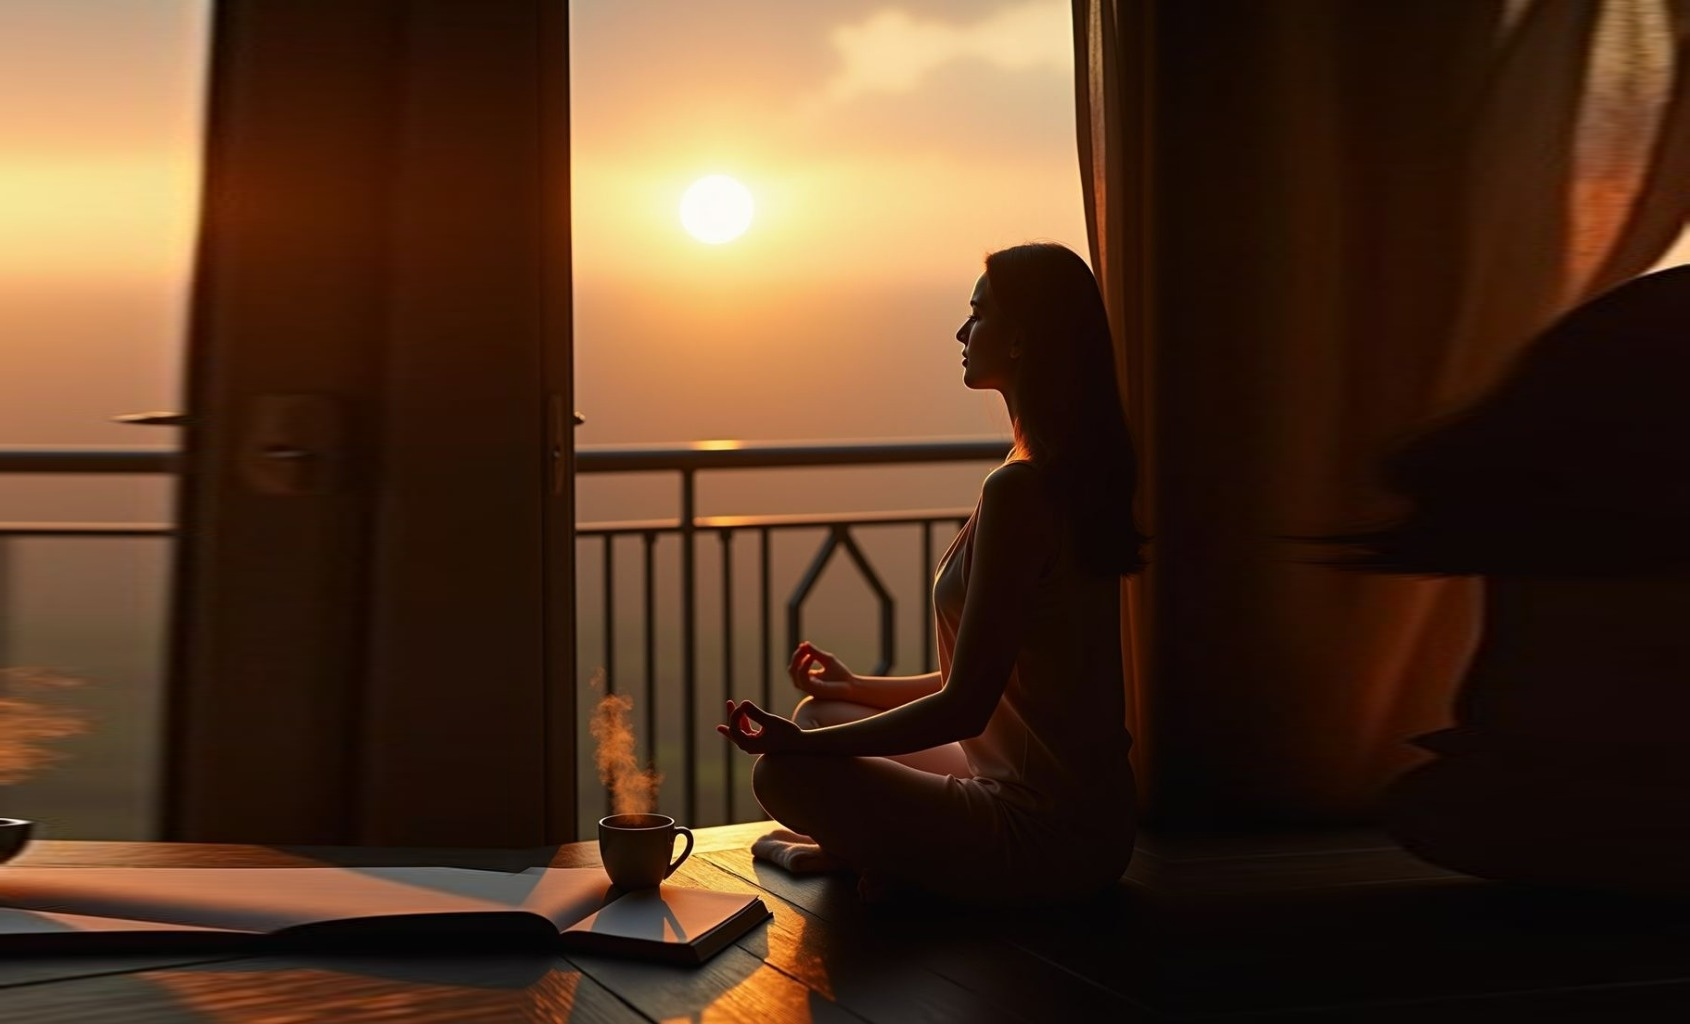
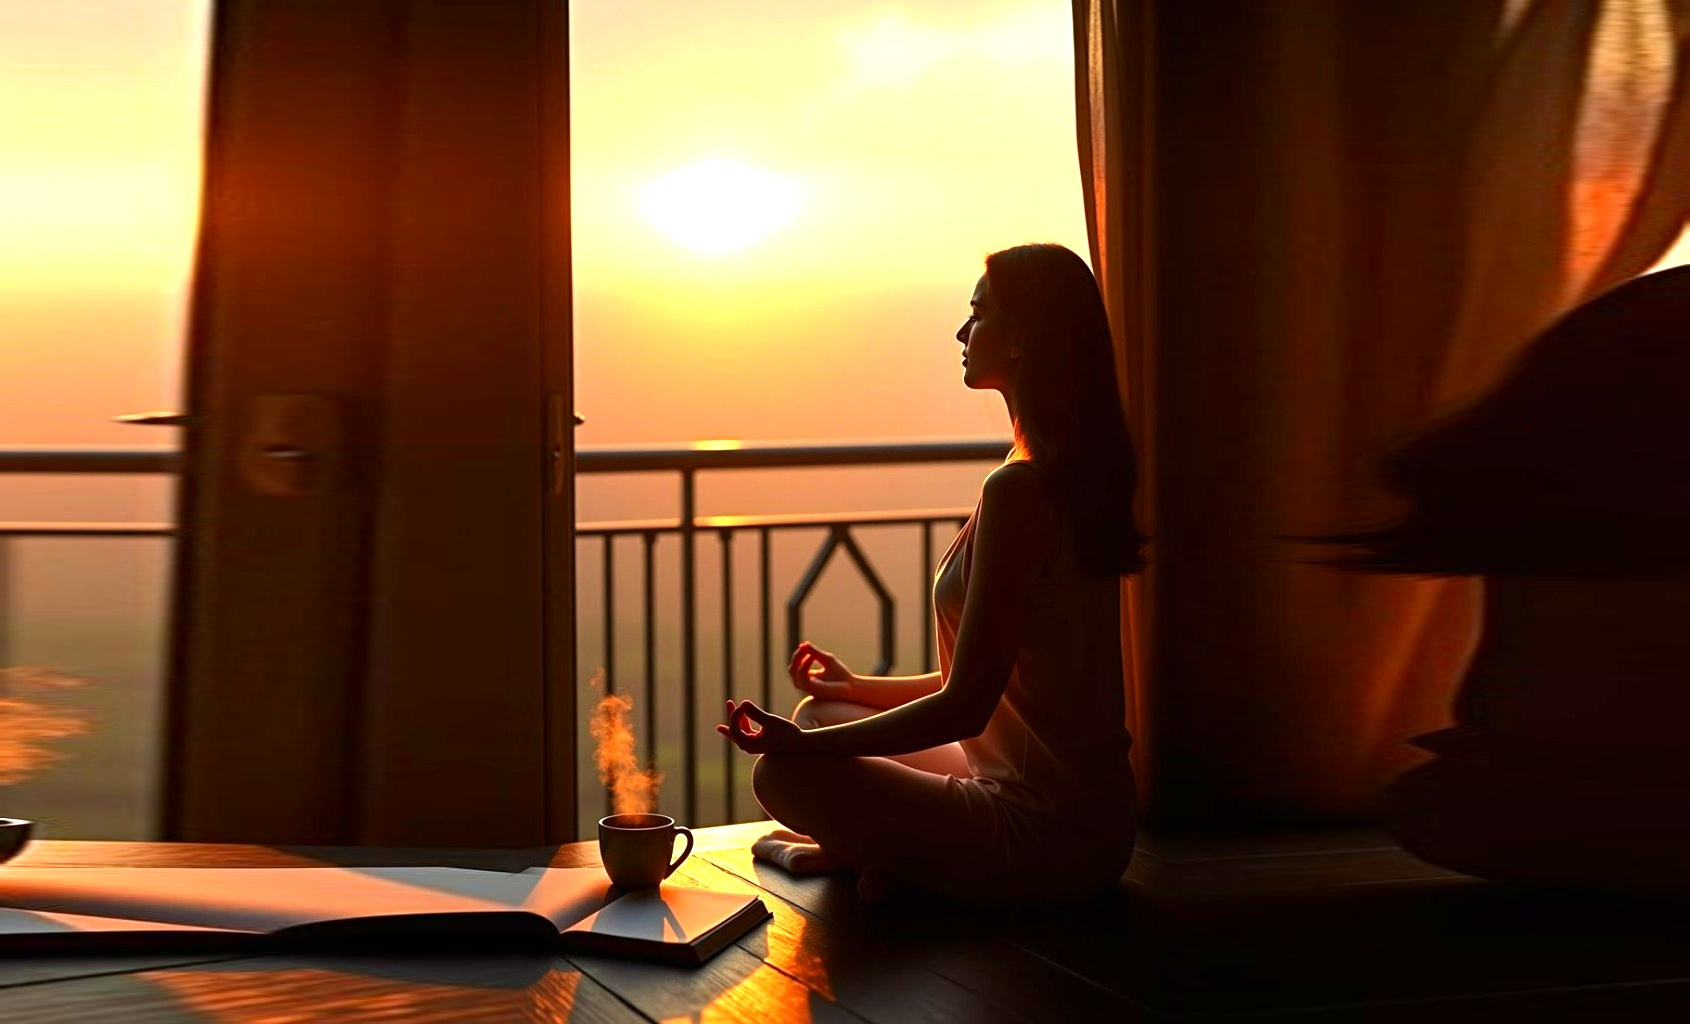
fix(community): brighten cards by lifting exposure and reducing canvas scrim coverage

diff --git a/src/components/community/CommunityRibbonHero.tsx b/src/components/community/CommunityRibbonHero.tsx
@@ -149,10 +149,10 @@ varying vec3 vWorldPos;
 void main() {
   vec4 texColor = texture2D(u_tex, vUv);
   
-  // Depth shading for 3D realism
+  // Depth shading for subtle 3D realism without darkening cards
   if (u_sheetD > 0.01) {
     float depth = clamp((u_sheetD - vWorldPos.z) / (2.0 * u_sheetD), 0.0, 1.0);
-    texColor.rgb = mix(texColor.rgb, texColor.rgb * 0.72, depth * 0.35);
+    texColor.rgb = mix(texColor.rgb, texColor.rgb * 0.92, depth * 0.12);
   }
 
   // Soft rounded card border fade
@@ -239,11 +239,11 @@ export default function CommunityRibbonHero() {
       };
 
       const renderCardOverlay = () => {
-        // Bottom readability gradient
-        const scrim = ctx.createLinearGradient(0, ch * 0.35, 0, ch);
-        scrim.addColorStop(0, "rgba(6, 12, 20, 0)");
-        scrim.addColorStop(0.5, "rgba(6, 12, 20, 0.65)");
-        scrim.addColorStop(1, "rgba(6, 12, 20, 0.95)");
+        // Bottom readability gradient - keep upper 68% pristine, bright & fully visible
+        const scrim = ctx.createLinearGradient(0, ch * 0.65, 0, ch);
+        scrim.addColorStop(0, "rgba(0, 0, 0, 0)");
+        scrim.addColorStop(0.5, "rgba(0, 0, 0, 0.40)");
+        scrim.addColorStop(1, "rgba(0, 0, 0, 0.75)");
         ctx.fillStyle = scrim;
         ctx.fillRect(0, 0, cw, ch);
 
